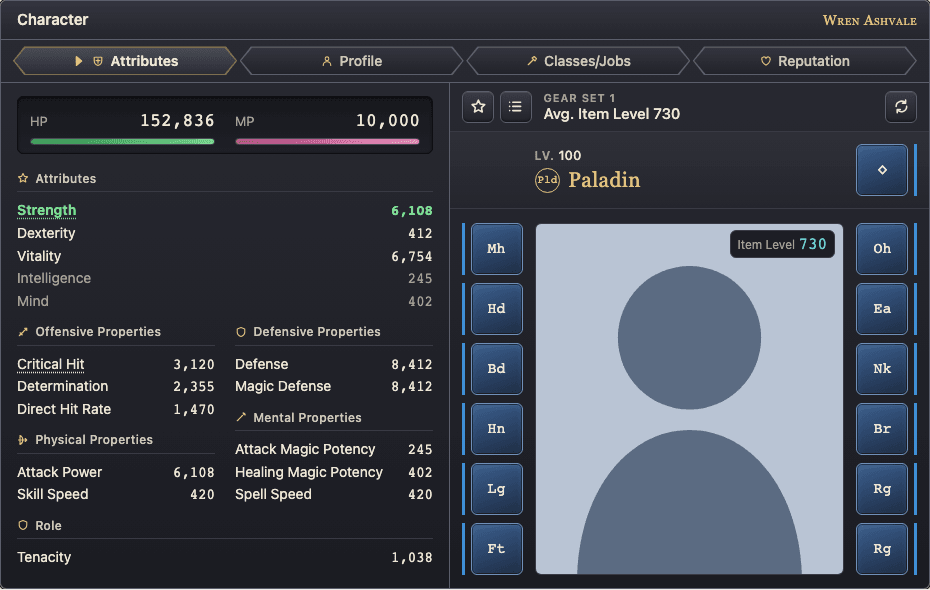
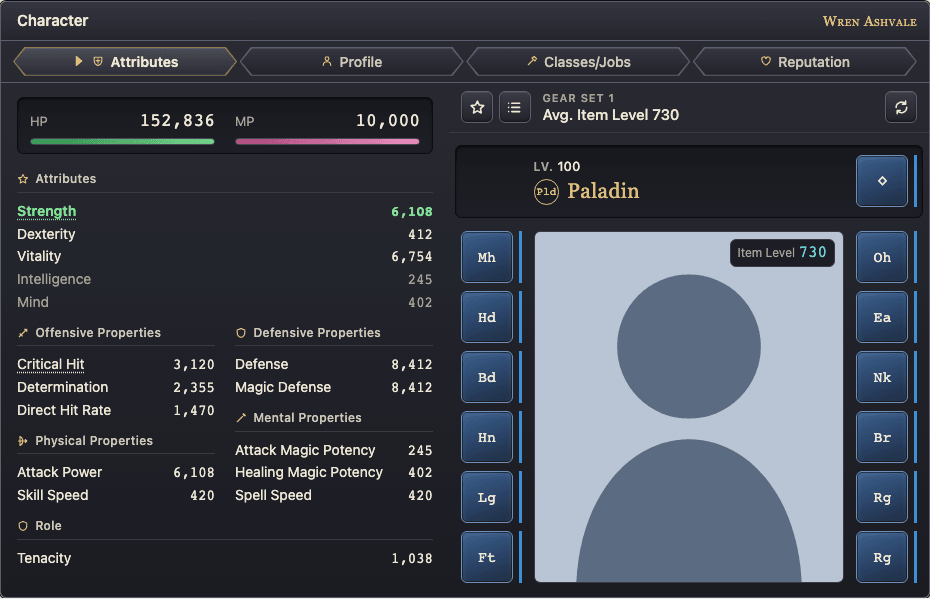
style: no pane line; game header boxed; slot rails on the right; tidy a stray brace (#72)
Four small CSS changes in `src/character-panel.css`:

- **No line between the window's panes.** In the window's wide layout,
the equipment pane had a 1px `--cs-rule-strong` left border, a vertical
line between it and the content pane. It's removed, with the two rules
that only turned it off (one pane, `.cs--single`; and stacked, below a
46rem container width). Stacked panes keep the rule above the equipment
pane: it splits top from bottom, not left from right. The equipment
pane's content moves 1px left, the border's width.
- **The stray `}}`.** The `@media (hover: none)` block (the touch-screen
tooltip rule) closed its rule and the media query on one line. The
braces were balanced; the second now has its own line, like the
`@container` block above it.
- **The equipment header in an inset box, game theme.** The header row
(its slots, the level and the job title) takes the HP/MP gauges' darker,
rounded inset box, so the two sides of the window match. `.cs__header`
joins the gauges' rule, so the two boxes share one set of declarations,
and the header's old faint gradient rule goes. A header-only rule sets
its spacing: margin, border and padding add up to the body's `0.75rem`,
so in the wide layout the header's slots stay over the slot columns
below. (Below the panel's 26rem breakpoint the body is one column with
slot grids, so there are no columns to line up with, before or after.)
The box's border replaces the header's bottom line. The document theme
[…]

diff --git a/src/character-panel.css b/src/character-panel.css
@@ -376,21 +376,13 @@ button.cs__gear-button:hover,
   padding-block: 0.85rem;
 }
 
+/* Squares sit at each column's start, with room after them for their
+   rails, which run along their right side in every column. */
 .cs__slots {
   display: flex;
   flex-direction: column;
-  gap: var(--cs-slot-gap);
-}
-
-/* Squares sit against the portrait; the rails run along the outer edge. */
-.cs__slots--left,
-.cs__slots--header-start {
-  align-items: flex-end;
-}
-
-.cs__slots--right,
-.cs__slots--header-end {
   align-items: flex-start;
+  gap: var(--cs-slot-gap);
 }
 
 .cs__portrait {
@@ -453,24 +445,15 @@ button.cs__gear-button:hover,
   position: relative;
 }
 
-/* The rail: a thin bar on the slot's outer side, lit when filled. */
+/* The rail: a thin bar on the slot's right side, lit when filled. */
 .cs-slot::before {
   content: "";
   position: absolute;
   top: 0;
+  right: calc(-1 * (var(--cs-rail-width) + 0.35rem));
   height: var(--cs-slot-size);
   width: var(--cs-rail-width);
   background: var(--cs-rail);
-}
-
-.cs__slots--left .cs-slot::before,
-.cs__slots--header-start .cs-slot::before {
-  left: calc(-1 * (var(--cs-rail-width) + 0.35rem));
-}
-
-.cs__slots--right .cs-slot::before,
-.cs__slots--header-end .cs-slot::before {
-  right: calc(-1 * (var(--cs-rail-width) + 0.35rem));
 }
 
 .cs-slot--empty::before {
@@ -947,11 +930,6 @@ a.cs-slot__face:hover .cs-slot__square,
 
 .cs__panes > .cs__equipment {
   grid-area: equipment;
-  border-left: 1px solid var(--cs-rule-strong);
-}
-
-.cs--single .cs__panes > .cs__equipment {
-  border-left: 0;
 }
 
 @container cs-window (max-width: 46rem) {
@@ -968,7 +946,6 @@ a.cs-slot__face:hover .cs-slot__square,
   .cs__panes > .cs__equipment {
     padding-inline: max(0px, (100% - 30rem) / 2);
     border-top: 1px solid var(--cs-rule-strong);
-    border-left: 0;
   }
 
   .cs--single .cs__panes > .cs__equipment {
@@ -1766,7 +1743,8 @@ span.cs-track__face[tabindex] .cs-track__label {
 @media (hover: none) {
   .cs-slot__hover:not([data-dismissed]):has(> [tabindex="0"]:focus) .cs-tip {
     display: block;
-  }}
+  }
+}
 
 /* ---------------------------------------------------------------------
    Game theme
@@ -1844,10 +1822,6 @@ span.cs-track__face[tabindex] .cs-track__label {
 .cs[data-cs-theme="game"] .cs__jobs-emblem {
   border-color: var(--cs-accent);
   border-radius: 50%;
-}
-
-.cs[data-cs-theme="game"] .cs__header {
-  background: linear-gradient(180deg, rgb(255 255 255 / 0.04), transparent);
 }
 
 /* The gear-set row's square bevelled buttons. */
@@ -2033,13 +2007,23 @@ span.cs-track__face[tabindex] .cs-track__label {
   font-weight: 500;
 }
 
-/* Gauges sit in a darker inset box. */
-.cs[data-cs-theme="game"] .cs-gauges {
+/* Gauges, and the equipment pane's header (its slots, level and job), sit
+   in a darker inset box. */
+.cs[data-cs-theme="game"] .cs-gauges,
+.cs[data-cs-theme="game"] .cs__header {
   padding: 0.6rem 0.75rem 0.5rem;
   border: 1px solid #0c0c10;
   border-radius: var(--cs-radius);
   background: linear-gradient(180deg, #17181d, #1f2026);
   box-shadow: inset 0 1px 3px rgb(0 0 0 / 0.6);
+}
+
+/* The header's box stands off the pane's edges. Margin, border and
+   padding add up to the body's 0.75rem, so in the wide layout the
+   header's slots stay over the slot columns below. */
+.cs[data-cs-theme="game"] .cs__header {
+  margin: 0.75rem 0.35rem 0;
+  padding: 0.6rem calc(0.4rem - 1px);
 }
 
 .cs[data-cs-theme="game"] .cs-meter {

diff --git a/browser/layout.spec.ts b/browser/layout.spec.ts
@@ -73,6 +73,40 @@ test("wide: the portrait sits between the columns, slot names hidden", async ({ 
   await expect(slot(page, "Skills")).toHaveAccessibleName("Skills");
 });
 
+for (const theme of ["document", "game"]) {
+  test(`wide, ${theme} theme: every filled slot's rail is on its right, inside its column`, async ({ page }) => {
+    await page.goto(`/?view=equipment&fixture=portfolio&theme=${theme}`);
+    const rails = await page.locator(".cs__slots .cs-slot").evaluateAll((slots) =>
+      slots.flatMap((item) => {
+        const rail = getComputedStyle(item, "::before");
+        if (rail.display === "none") return [];
+        // The rail is absolutely placed against the slot by its `right`.
+        const slotBox = item.getBoundingClientRect();
+        const railRight = slotBox.right - parseFloat(rail.right);
+        return [
+          {
+            column: item.closest(".cs__slots")!.className,
+            squareRight: item.querySelector(".cs-slot__square")!.getBoundingClientRect().right,
+            railLeft: railRight - parseFloat(rail.width),
+            railRight,
+            columnRight: item.closest(".cs__slots")!.getBoundingClientRect().right,
+          },
+        ];
+      }),
+    );
+    // Filled slots in all four columns, so each column's rule is checked.
+    for (const column of ["left", "right", "header-start", "header-end"]) {
+      expect(rails.some((rail) => rail.column.includes(`cs__slots--${column}`)), column).toBe(true);
+    }
+    for (const rail of rails) {
+      expect(rail.railLeft, rail.column).toBeGreaterThan(rail.squareRight);
+      // Beside its square, not adrift in the column.
+      expect(rail.railLeft - rail.squareRight, rail.column).toBeLessThan(16);
+      expect(rail.railRight, rail.column).toBeLessThanOrEqual(rail.columnRight + 0.5);
+    }
+  });
+}
+
 test("narrow (below 26rem): portrait on top, slots in rows of three with names", async ({ page }) => {
   await page.goto("/?view=equipment&fixture=portfolio&theme=document&width=22");
   const portrait = await box(page, ".cs__portrait");

diff --git a/docs/roadmap.md b/docs/roadmap.md
@@ -508,6 +508,30 @@
   tighter slot column limit (at `parseConfig`). Not reported: a
   key-order-only change in `parseConfig`. A base without
   `CharacterWindow` exits 2.
+- No line between the window's panes (2026-11-25, the owner's request):
+  the wide layout drew a 1px rule on the equipment pane's left edge,
+  between it and the content pane. It's gone, with the two rules that only
+  turned it off (one pane, and stacked). Stacked panes keep the rule above
+  the equipment pane. CSS only; no API change. The README's two
+  screenshots in `docs/media/v2/` are retaken (decision 0011), since
+  both show the wide layout.
+- The header in an inset box, game theme (2026-11-26, the owner's
+  request): the equipment pane's header (`.cs__header`: its slots, level
+  and job title) takes the gauges' darker, rounded inset box, from the
+  same rule, so the two sides of the window match, in place of its faint
+  gradient and bottom line. Its margin, border and padding add up to the
+  body's 0.75rem, so in the wide layout the header's slots stay over the
+  slot columns. Game
+  theme only, as the gauges' box is; CSS only, no API change. The
+  README's game screenshot is retaken.
+- Rails on the right of every slot (2026-11-26, the owner's request):
+  the left column and the header's start slots had their rails on the
+  left, mirrored with the right column's. Now each column puts its
+  squares at its start and every rail runs along the square's right
+  side, one rule for each in place of a left and a right one. A browser
+  test checks each filled slot's rail is right of its square and inside
+  its column, in all four columns and both themes (it fails on the old
+  CSS). CSS only, no API change. Both README screenshots are retaken.
 
 ## Tooling plan (done)
 

diff --git a/CHANGELOG.md b/CHANGELOG.md
@@ -13,6 +13,22 @@ A PR that changes what's published adds its line under Unreleased; the
 
 ## [Unreleased]
 
+### Changed
+
+- In the window's wide layout, the content pane and the equipment pane
+  beside it are no longer split by a vertical line. When the panes stack
+  (below a 46rem container width), the line between them is unchanged.
+- In the `game` theme, the equipment pane's header (its slots, the level
+  and the job title) sits in the same darker, rounded inset box as the
+  gauges, in place of its faint gradient and bottom line. The document
+  theme is unchanged.
+- A filled slot's rail (the thin bar beside its square) is on the
+  square's right in every column. Before, the left column and the
+  header's start slots had theirs on the left. Their squares move to the
+  column's start, so the rail sits between the square and the portrait.
+  Below a 26rem width, where slots have no rails, each row's slots now
+  line up at the top in the left grid as well as the right.
+
 ## [2.0.0-beta.5] - 2026-11-24
 
 ### Fixed
